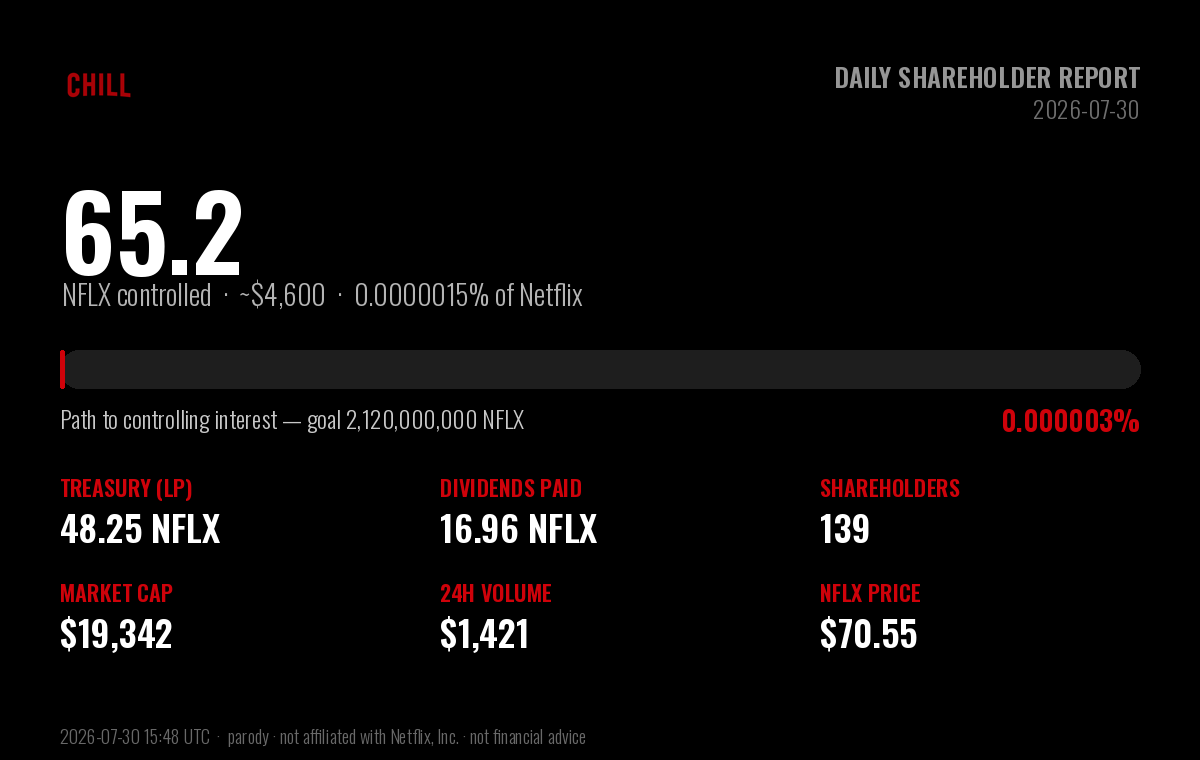
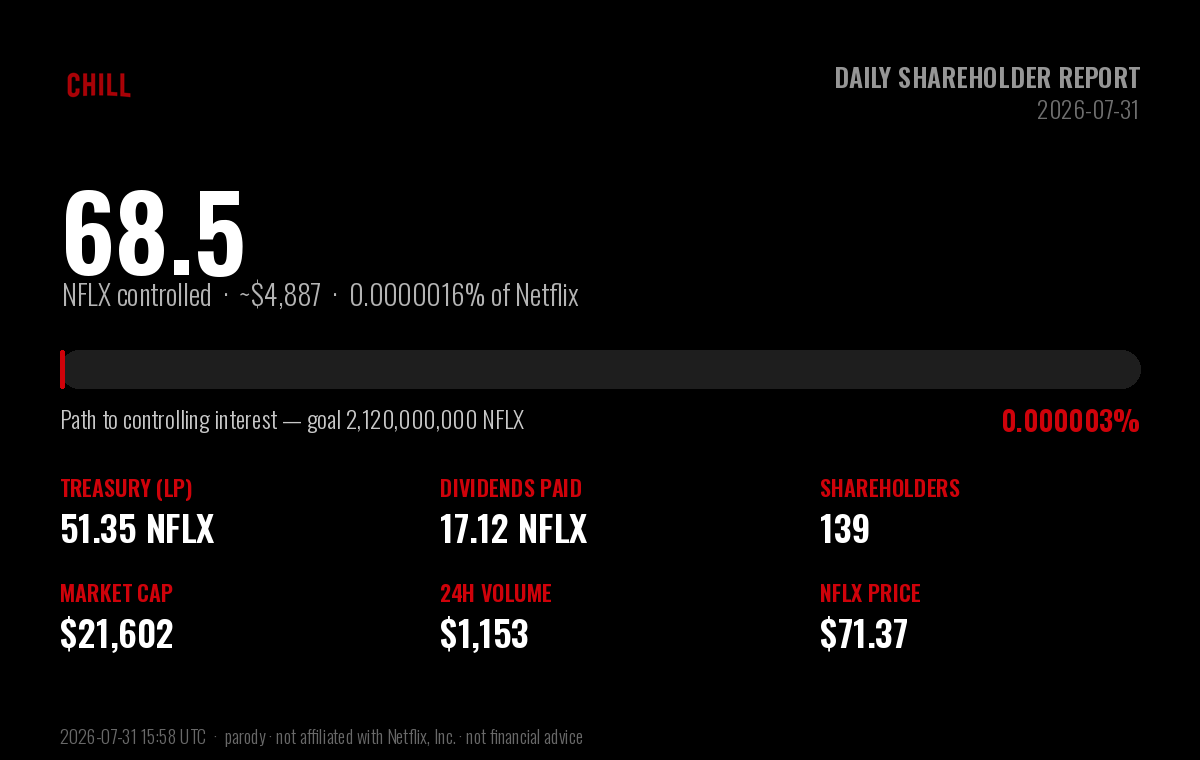
chore: daily $CHILL shareholder report (2026-07-31)

diff --git a/daily-holder-report/README.md b/daily-holder-report/README.md
@@ -1,6 +1,6 @@
 # $CHILL — Daily Shareholder Report
 
-### Netflix and Chill · Report to Shareholders · 2026-07-30
+### Netflix and Chill · Report to Shareholders · 2026-07-31
 
 > **Corporate objective:** acquire a controlling interest in Netflix (NFLX).
 > Netflix has **4,220,000,000** shares outstanding; a majority
@@ -13,53 +13,53 @@
 
 | Metric | Value |
 |---|---|
-| **NFLX under $CHILL control** | **65.20 NFLX** (~$4,600) |
-| Stake in Netflix | 0.000001545% of shares outstanding |
-| Progress to controlling interest | 0.0000031% of 2,120,000,000 |
-| Shares remaining to majority | 2,119,999,935 NFLX |
+| **NFLX under $CHILL control** | **68.46 NFLX** (~$4,887) |
+| Stake in Netflix | 0.000001622% of shares outstanding |
+| Progress to controlling interest | 0.0000032% of 2,120,000,000 |
+| Shares remaining to majority | 2,119,999,932 NFLX |
 
 ## Balance sheet — NFLX holdings
 
 | Holding | NFLX | USD |
 |---|---|---|
-| Treasury (protocol-owned liquidity) | 48.25 | $3,404 |
-| Dividends distributed to shareholders | 16.96 | $1,196 |
-| **Total NFLX controlled** | **65.20** | **$4,600** |
+| Treasury (protocol-owned liquidity) | 51.35 | $3,665 |
+| Dividends distributed to shareholders | 17.12 | $1,222 |
+| **Total NFLX controlled** | **68.46** | **$4,887** |
 
 ## Last 24 hours
 
 | Metric | Value |
 |---|---|
-| Trading volume | 20.15 NFLX (~$1,421) |
-| Net NFLX accumulated | 1.84 NFLX |
-| Dividends generated | 0.2015 NFLX |
-| Transactions | 32 (16 buys / 16 sells) |
-| $CHILL price change | -17.7% |
+| Trading volume | 16.16 NFLX (~$1,153) |
+| Net NFLX accumulated | 3.10 NFLX |
+| Dividends generated | 0.1616 NFLX |
+| Transactions | 28 (20 buys / 8 sells) |
+| $CHILL price change | +4.2% |
 
 ## Shareholder & market data
 
 | Metric | Value |
 |---|---|
 | Shareholders of record | 139 |
-| Lifetime unique participants | 501 |
+| Lifetime unique participants | 506 |
 | Shares outstanding ($CHILL) | 1,000,000,000 |
-| Market capitalization | $19,342 |
-| $CHILL price | $0.00001934 |
-| NFLX price | $70.55 |
-| Lifetime volume | 1,695.52 NFLX (~$119,615) |
-| Lifetime transactions | 2,055 (1,219 buys / 836 sells) |
-| Days since IPO (launch) | 10 |
+| Market capitalization | $21,602 |
+| $CHILL price | $0.00002160 |
+| NFLX price | $71.37 |
+| Lifetime volume | 1,711.68 NFLX (~$122,171) |
+| Lifetime transactions | 2,083 (1,239 buys / 844 sells) |
+| Days since IPO (launch) | 11 |
 
 ## Per-share metrics
 
 | Metric | Value |
 |---|---|
-| NFLX backing per 1M $CHILL | 0.065201 NFLX |
-| Dividends per 1M $CHILL | 0.016955 NFLX |
+| NFLX backing per 1M $CHILL | 0.068463 NFLX |
+| Dividends per 1M $CHILL | 0.017117 NFLX |
 
 ---
 
-*Report generated 2026-07-30 15:48 UTC · block 23,434,800 · data via the Sentry-Robinhood
+*Report generated 2026-07-31 15:58 UTC · block 24,303,227 · data via the Sentry-Robinhood
 subgraph and Robinhood Chain explorer.*
 
 **Disclaimer:** $CHILL is an independent, community-driven **parody** token. It is
